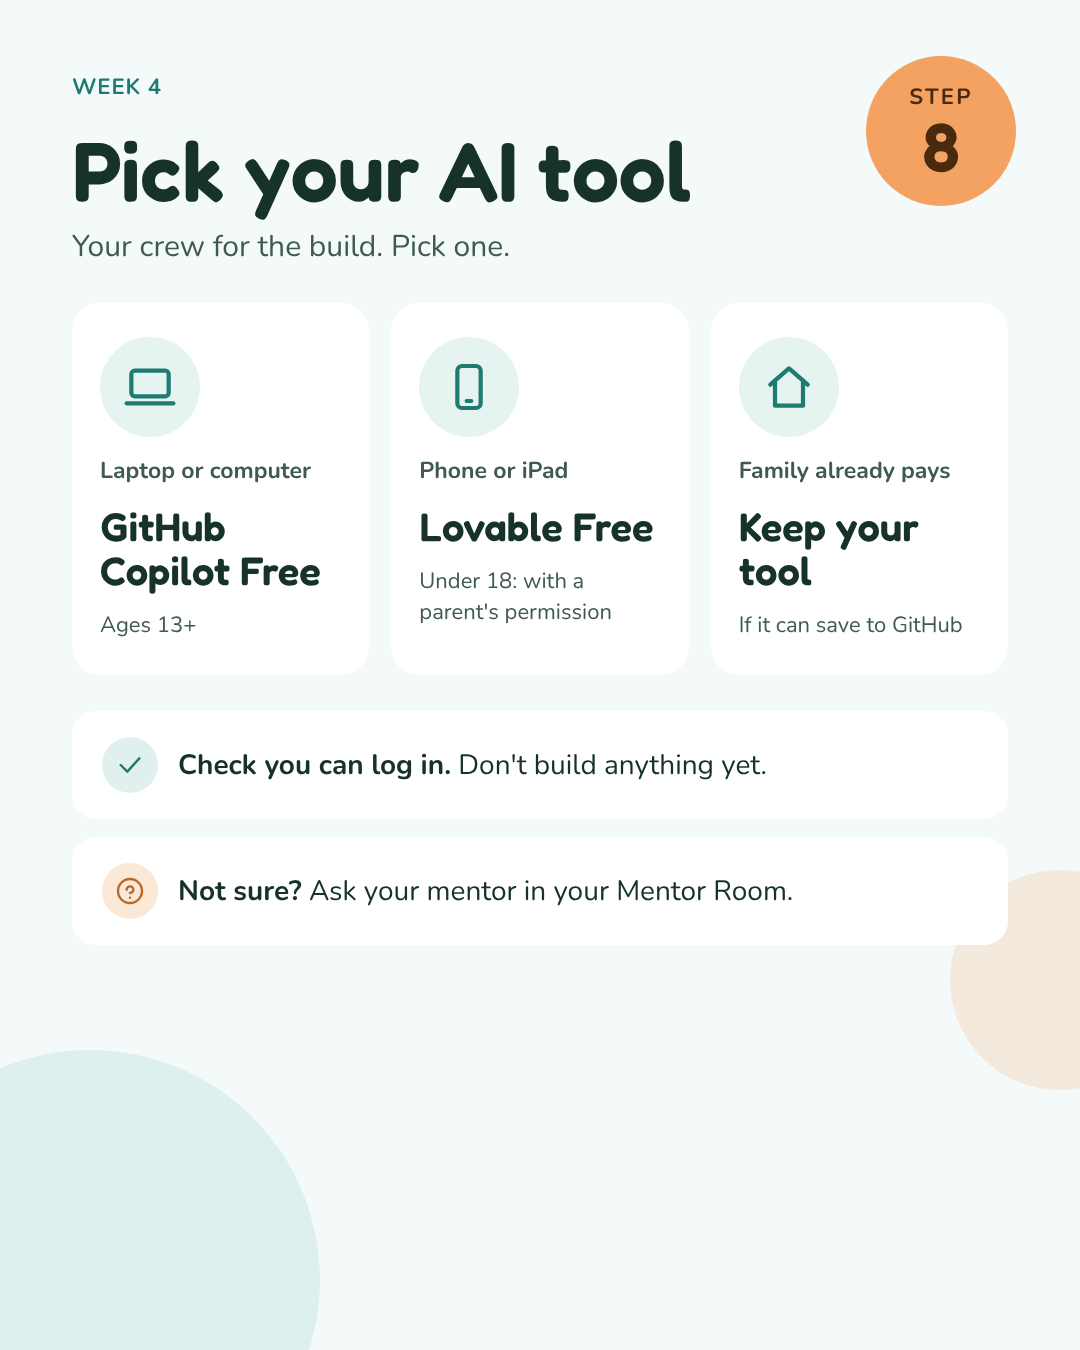
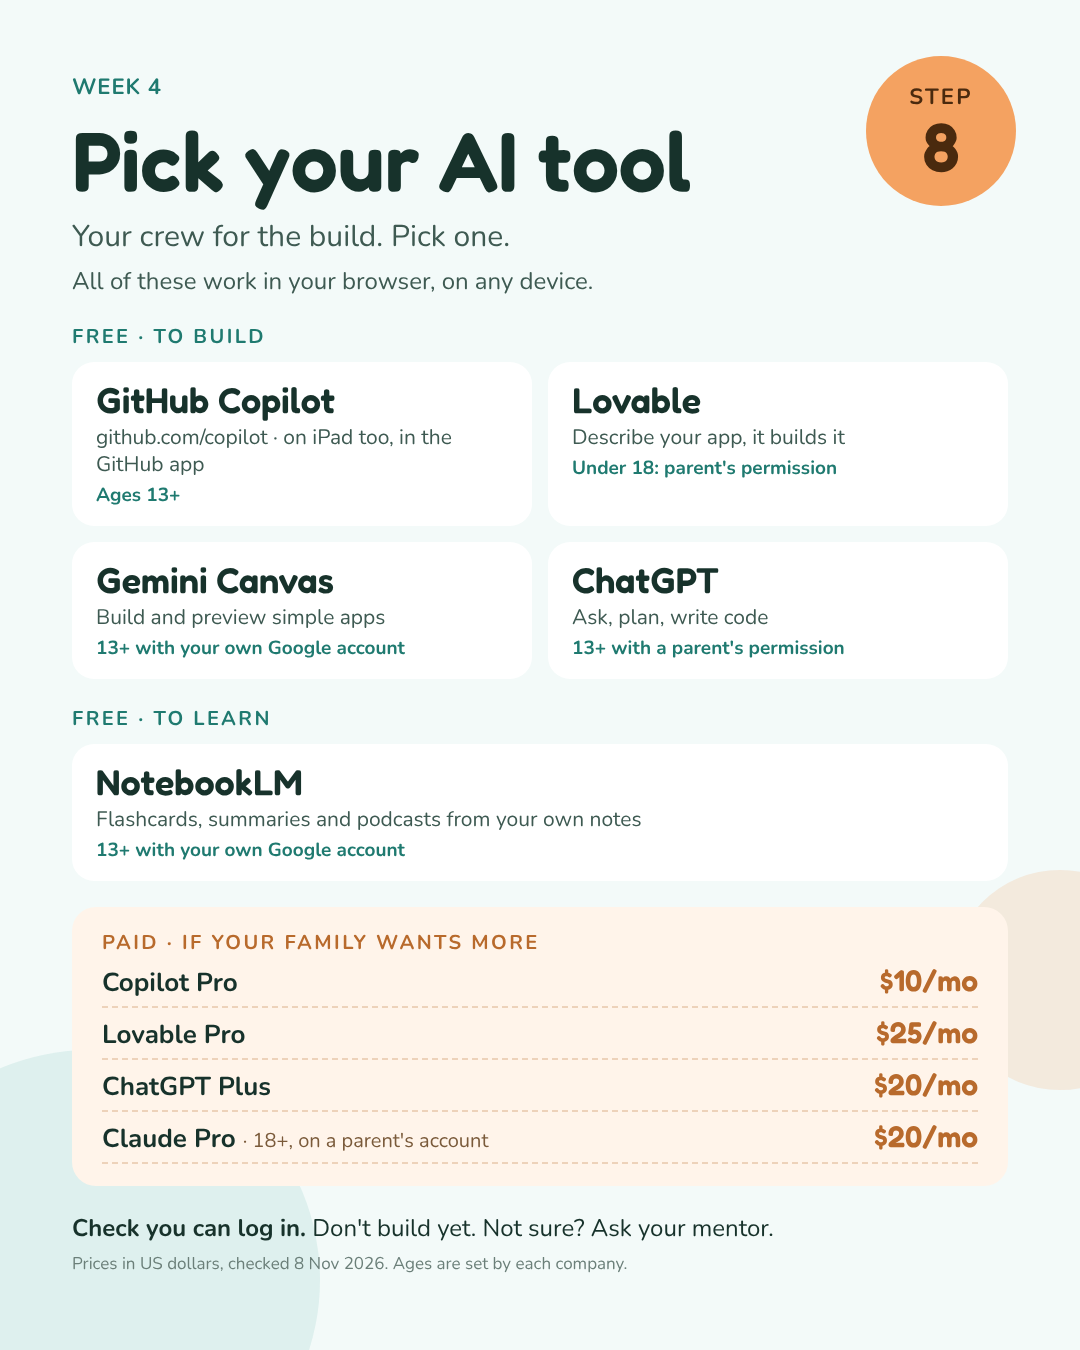
Week 4: AI tools as one card, with free tools and paid plans
Claude-Session: https://claude.ai/code/session_017cWDJ4VkUY6nVHc5Kp4dEU

diff --git a/weeks/week-4/ai-tools.md b/weeks/week-4/ai-tools.md
@@ -2,22 +2,12 @@
 
 # Pick your AI tool 🤖
 
-Pick one to build with. Check that you can log in. **Don't build anything yet.** Not sure? Ask your mentor in your Mentor Room.
+![Pick your AI tool: free to build with GitHub Copilot, Lovable, Gemini Canvas or ChatGPT; free to learn with NotebookLM; paid plans Copilot Pro $10, Lovable Pro $25, ChatGPT Plus $20, Claude Pro $20 a month](images/08-pick-your-ai-tool.png)
 
-## To build your product
+**Open them here:** [GitHub Copilot](https://github.com/copilot) · [Lovable](https://lovable.dev) · [Gemini](https://gemini.google.com) · [ChatGPT](https://chatgpt.com) · [NotebookLM](https://notebooklm.google.com)
 
-| You build on… | Tool | Cost | Age |
-|---|---|---|---|
-| 💻 Laptop or computer | **GitHub Copilot Free** (in VS Code or github.com) | Free | 13+ |
-| 📱 Phone or iPad | **Lovable Free** (app: "Lovable: Build Apps With AI" by Lovable Labs; there's a look-alike) | Free, 5 credits a day | Under 18 with a parent's permission |
-| 🌐 Any device | **Gemini**, with **Canvas** to build and preview simple apps | Free | 13+ with your own Google account. Under 13: a parent turns it on in Family Link |
-| 🌐 Any device | **ChatGPT** | Free | 13+ with a parent's permission |
-| 🏠 Your family already pays for a tool | **Keep it** (Claude is 18+, so use a parent's account) | | If it can save to GitHub |
+**Copilot on iPad:** use [github.com/copilot](https://github.com/copilot) in Safari, or the GitHub app.
 
-## To learn and study
+Pick one. Check that you can log in. **Don't build anything yet.** Not sure? Ask your mentor in your Mentor Room.
 
-| Tool | What it's great for | Cost | Age |
-|---|---|---|---|
-| **NotebookLM** | Upload your notes, interviews or a lesson. It makes summaries, flashcards and short podcasts, and answers from *your* sources only | Free | 13+ with your own Google account |
-
-**Ages are set by each company.** They can be higher in some countries.
+<sub>Prices in US dollars, checked 8 Nov 2026 on each company's pricing page: [Copilot](https://github.com/features/copilot/plans) · [Lovable](https://lovable.dev/pricing) · [ChatGPT](https://chatgpt.com/pricing) · [Claude](https://support.anthropic.com/en/articles/8325610-how-much-does-claude-pro-cost). Ages are set by each company and can be higher in some countries.</sub>
